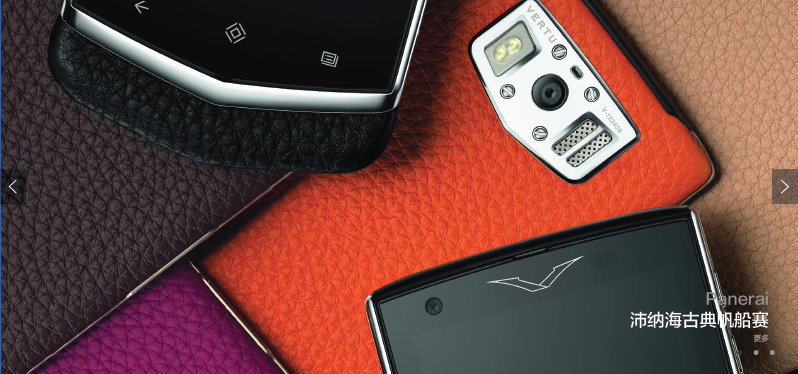
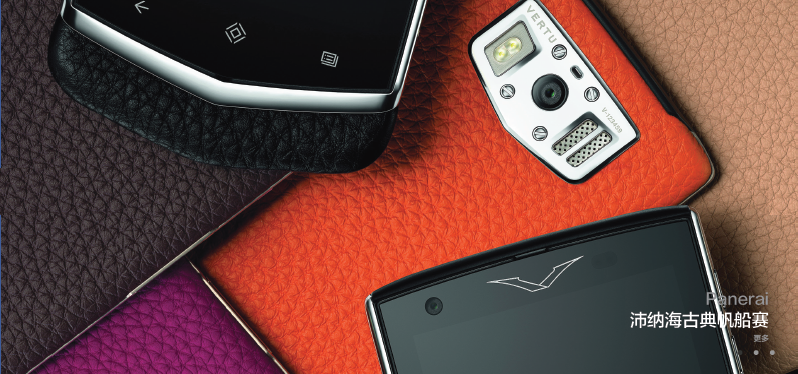
css arrow

Changed region(s): [[0.9624, 0.4412, 1.0, 0.5882], [0.0, 0.4412, 0.0301, 0.5882]]

diff --git a/bootstrap/css/main2.css b/bootstrap/css/main2.css
@@ -126,7 +126,7 @@
   -webkit-tap-highlight-color: rgba(0,0,0,0);
   top: 53%;
   left: -2px;
-  opacity: 0.3;
+  opacity: 0.7;
   z-index: 3;
   text-indent: -9999px;
   overflow: hidden;
@@ -144,7 +144,7 @@
 .callbacks_nav.next {
   left: auto;
   background: transparent url("http://static.acmedynasty.com/images/home_right.png") no-repeat right top;
-  margin-right: -18px;
+ 
   right: 0;
   }
 @media screen and (max-width:600px) {
